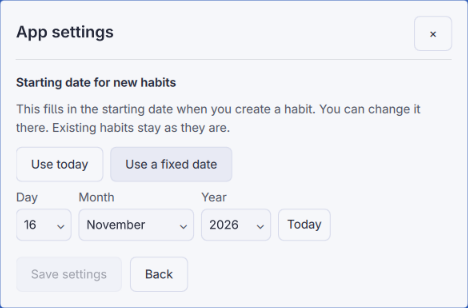
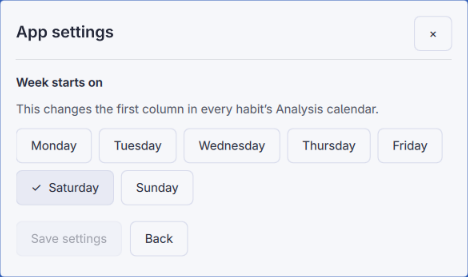
Let users choose the first weekday in Analysis calendars

diff --git a/HabitPanel.qml b/HabitPanel.qml
@@ -31,8 +31,7 @@ Panel {
   property string draftDefault: ""
   property string formError: ""
   property string returnTab: "task"
-  property string appDraftStart: ""
-  property bool appFixedDate: false
+  property int appDraftWeekStart: 1
   property bool appModified: false
   property bool appSaved: false
 
@@ -42,7 +41,7 @@ Panel {
     || Model.findHabit(trackerState, trackerState.selectedHabitId) || trackerState.habits[0] || null
   readonly property bool editing: creating || (tab === "settings" && habit !== null)
   readonly property bool appSettingsOpen: tab === "appSettings"
-  readonly property string appDefaultStart: trackerState.preferences ? trackerState.preferences.defaultStartDate : ""
+  readonly property int weekStart: Model.weekStartDay(trackerState.preferences && trackerState.preferences.weekStart)
   readonly property var stats: opened && habit && tab === "analysis" ? Model.analyzeHabit(habit, trackerState, todayKey) : null
   readonly property int previewDays: editing && draftStart >= "1900-01-01"
     ? Model.defaultPreview(trackerState, editId, draftStart, todayKey, draftDefault) : 0
@@ -167,7 +166,7 @@ Panel {
     draftKind = item ? item.kind : "good"
     draftQuestion = item ? item.question : t("defaultQuestion")
     draftMessage = item ? item.message : ""
-    draftStart = item ? item.startDate : Model.newHabitStart(trackerState, todayKey)
+    draftStart = item ? item.startDate : todayKey
     draftDefault = item ? item.defaultAnswer : ""
     saved = false
     deleteArmed = false
@@ -179,22 +178,21 @@ Panel {
     saved = false
   }
   function loadAppDraft() {
-    appFixedDate = appDefaultStart !== ""
-    appDraftStart = Model.newHabitStart(trackerState, todayKey)
+    appDraftWeekStart = weekStart
     appModified = false
     appSaved = false
   }
-  function setAppDateMode(fixed) {
-    if (saving || fixed === appFixedDate) return
-    appFixedDate = fixed
-    appModified = true
+  function setAppWeekStart(day) {
+    if (saving || day === appDraftWeekStart) return
+    appDraftWeekStart = day
+    appModified = day !== weekStart
     appSaved = false
   }
   function saveAppSettings() {
     if (busy || saving) return
     saving = true
     appSaved = false
-    hostWidget.savePreferences(appFixedDate ? appDraftStart : "")
+    hostWidget.savePreferences(appDraftWeekStart)
   }
   function save() {
     if (busy) return
@@ -580,9 +578,10 @@ Panel {
                 width: parent.width
                 spacing: Style.space(6)
                 Repeater {
-                  model: [1, 2, 3, 4, 5, 6, 7]
+                  model: Model.orderedWeekdays(root.weekStart)
                   Label {
                     required property int modelData
+                    objectName: "calendarWeekday-" + modelData
                     width: (weekdayRow.width - weekdayRow.spacing * 6) / 7
                     text: root.locale.dayName(modelData, Locale.ShortFormat)
                     color: root.dim
@@ -779,54 +778,28 @@ Panel {
 
             FieldGroup {
               width: parent.width
-              label: root.t("appDefaultStart")
+              label: root.t("weekStartsOn")
               Label {
                 width: parent.width
-                text: root.t("appDefaultStartHint")
+                text: root.t("weekStartHint")
                 wrapMode: Text.Wrap
                 color: root.dim
               }
               Flow {
                 width: parent.width
                 spacing: Style.space(8)
-                Choice {
-                  objectName: "appStartToday"
-                  text: root.t("useToday")
-                  active: !root.appFixedDate
-                  enabled: !root.saving
-                  onClicked: root.setAppDateMode(false)
+                Repeater {
+                  model: [1, 2, 3, 4, 5, 6, 7]
+                  Choice {
+                    required property int modelData
+                    objectName: "weekStart-" + modelData
+                    text: root.locale.dayName(modelData, Locale.LongFormat)
+                    iconText: active ? "✓" : ""
+                    active: root.appDraftWeekStart === modelData
+                    enabled: !root.saving
+                    onClicked: root.setAppWeekStart(modelData)
+                  }
                 }
-                Choice {
-                  objectName: "appStartFixed"
-                  text: root.t("useFixedDate")
-                  active: root.appFixedDate
-                  enabled: !root.saving
-                  onClicked: root.setAppDateMode(true)
-                }
-              }
-              StartDatePicker {
-                objectName: "appStartDatePicker"
-                fieldIdPrefix: "appStartDate"
-                visible: root.appFixedDate
-                enabled: !root.saving
-                width: parent.width
-                dateKey: root.appDraftStart || root.todayKey
-                maximumDate: root.todayKey
-                locale: root.locale
-                translations: strings
-                foreground: root.foreground
-                accent: root.accent
-                surface: root.surface
-                muted: root.dim
-                fontFamily: root.fontFamily
-                bodySize: root.bodySize
-                secondarySize: root.secondarySize
-                onPicked: function(dateKey) {
-                  root.appDraftStart = dateKey
-                  root.appModified = true
-                  root.appSaved = false
-                }
-                onFieldFocused: function(field) { root.revealFocus(field) }
               }
             }
             Flow {

diff --git a/Model.js b/Model.js
@@ -51,11 +51,17 @@ function enumerateDays(start, end) {
   return days
 }
 function emptyState() {
-  return { version: 2, habits: [], entries: {}, automatic: {}, selectedHabitId: "", preferences: { defaultStartDate: "" } }
+  return { version: 2, habits: [], entries: {}, automatic: {}, selectedHabitId: "", preferences: { weekStart: 1 } }
 }
-function newHabitStart(state, today) {
-  var start = state.preferences && state.preferences.defaultStartDate
-  return start && start <= today ? start : today
+function weekStartDay(value) {
+  return Number.isInteger(value) && value >= 1 && value <= 7 ? value : 1
+}
+function orderedWeekdays(weekStart) {
+  var first = weekStartDay(weekStart)
+  return [0, 1, 2, 3, 4, 5, 6].map(function(offset) { return (first - 1 + offset) % 7 + 1 })
+}
+function weekOffset(date, weekStart) {
+  return (date.getDay() + 7 - (weekStartDay(weekStart) % 7)) % 7
 }
 function findHabit(state, id) {
   var habits = state && state.habits || []
@@ -67,8 +73,7 @@ function parseState(raw, fallbackDate) {
   var parsed
   try { parsed = JSON.parse(raw) } catch (error) { return state }
   if (!parsed || !Array.isArray(parsed.habits)) return state
-  var defaultStart = parsed.preferences && parsed.preferences.defaultStartDate
-  if (validKey(defaultStart) && defaultStart >= "1900-01-01") state.preferences.defaultStartDate = defaultStart
+  state.preferences.weekStart = weekStartDay(parsed.preferences && parsed.preferences.weekStart)
   var known = {}
   for (var i = 0; i < parsed.habits.length && i < 80; i++) {
     var h = parsed.habits[i]
@@ -155,29 +160,29 @@ function defaultPreview(state, habitId, start, today, answer) {
 }
 function monthGrid(habit, state, year, month, today) {
   if (!habit) return []
-  return calendarDates(year, month).map(function(date) {
+  return calendarDates(year, month, state.preferences && state.preferences.weekStart).map(function(date) {
     var cell = cellFor(state, habit, date.key, today)
     cell.inMonth = date.inMonth
     return cell
   })
 }
-function calendarDates(year, month) {
+function calendarDates(year, month, weekStart) {
   var first = new Date(year, month, 1, 12)
-  var monday = addDays(keyForDate(first), -((first.getDay() + 6) % 7))
+  var firstCell = addDays(keyForDate(first), -weekOffset(first, weekStart))
   var cells = []
   for (var i = 0; i < 42; i++) {
-    var key = addDays(monday, i)
+    var key = addDays(firstCell, i)
     cells.push({ key: key, day: Number(key.slice(-2)), inMonth: dateFromKey(key).getMonth() === month })
   }
   return cells
 }
 function heatmapWeeks(habit, state, today, count) {
   var date = dateFromKey(today)
-  var monday = addDays(today, -(count - 1) * 7 - ((date.getDay() + 6) % 7))
+  var firstCell = addDays(today, -(count - 1) * 7 - weekOffset(date, state.preferences && state.preferences.weekStart))
   var weeks = []
   for (var w = 0; w < count; w++) {
     var row = []
-    for (var d = 0; d < 7; d++) row.push(cellFor(state, habit, addDays(monday, w * 7 + d), today))
+    for (var d = 0; d < 7; d++) row.push(cellFor(state, habit, addDays(firstCell, w * 7 + d), today))
     weeks.push(row)
   }
   return weeks
@@ -253,7 +258,7 @@ function analyze(state, today) {
 if (typeof module !== "undefined" && module.exports) module.exports = {
   keyForDate: keyForDate, dateFromKey: dateFromKey, validKey: validKey, todayKey: todayKey,
   addDays: addDays, daysBetween: daysBetween, dateParts: dateParts, dateLimits: dateLimits, changeDatePart: changeDatePart,
-  emptyState: emptyState, newHabitStart: newHabitStart, parseState: parseState, findHabit: findHabit,
+  emptyState: emptyState, weekStartDay: weekStartDay, orderedWeekdays: orderedWeekdays, parseState: parseState, findHabit: findHabit,
   answerFor: answerFor, successFor: successFor, recordFor: recordFor,
   summaryForDay: summaryForDay, defaultPreview: defaultPreview, monthGrid: monthGrid, calendarDates: calendarDates, heatmapWeeks: heatmapWeeks,
   analyzeHabit: analyzeHabit, analyze: analyze

diff --git a/StartDatePicker.qml b/StartDatePicker.qml
@@ -18,7 +18,6 @@ Flow {
   property string fontFamily: Style.font.family
   property int bodySize: Style.font.body
   property int secondarySize: Style.font.bodySmall
-  property string fieldIdPrefix: "startDate"
 
   readonly property var maximum: Model.dateParts(maximumDate)
   readonly property var current: Model.dateParts(dateKey) || maximum
@@ -47,7 +46,7 @@ Flow {
     width: Math.min(picker.width, Math.max(255, Style.space(306)))
 
     DateField {
-      objectName: picker.fieldIdPrefix + "Day"
+      objectName: "startDateDay"
       title: picker.translations.t("day")
       width: fields.fieldSpace * 0.23
       model: picker.makeOptions(1, picker.limits.day, 1, picker.numberLabel)
@@ -55,7 +54,7 @@ Flow {
       onActivated: function(index) { popup.close(); picker.selectPart("day", model[index].key) }
     }
     DateField {
-      objectName: picker.fieldIdPrefix + "Month"
+      objectName: "startDateMonth"
       title: picker.translations.t("month")
       width: fields.fieldSpace * 0.48
       model: picker.makeOptions(1, picker.limits.month, 1,
@@ -64,7 +63,7 @@ Flow {
       onActivated: function(index) { popup.close(); picker.selectPart("month", model[index].key) }
     }
     DateField {
-      objectName: picker.fieldIdPrefix + "Year"
+      objectName: "startDateYear"
       title: picker.translations.t("year")
       width: fields.fieldSpace * 0.29
       model: picker.makeOptions(picker.maximum.year, 1900, -1,
@@ -79,7 +78,7 @@ Flow {
     height: fields.height
     Button {
       id: todayButton
-      objectName: picker.fieldIdPrefix + "Today"
+      objectName: "startDateToday"
       anchors.bottom: parent.bottom
       text: picker.translations.t("today")
       enabled: picker.dateKey !== picker.maximumDate

diff --git a/BarWidget.qml b/BarWidget.qml
@@ -50,8 +50,8 @@ BarWidget {
     operation.action = fields.id ? "edit" : "add"
     operate(operation)
   }
-  function savePreferences(defaultStartDate) {
-    operate({ action: "setPreferences", defaultStartDate: defaultStartDate })
+  function savePreferences(weekStart) {
+    operate({ action: "setPreferences", weekStart: weekStart })
   }
   function deleteHabit(id) { operate({ action: "delete", id: id }) }
   function setAnswer(id, date, value) {

diff --git a/tests/test_store.py b/tests/test_store.py
@@ -110,28 +110,32 @@ class StorageTests(unittest.TestCase):
         self.assertEqual(data["entries"], {})
         self.assertEqual(data["automatic"], {})
 
-    def test_app_default_applies_to_new_habits_only(self):
+    def test_week_start_persists_without_changing_habits_or_history(self):
         data, existing = self.add(defaultAnswer="")
         self.apply(action="answer", id=existing, date=YESTERDAY, value="no")
         before = self.apply(action="read")
-        after = self.apply(action="setPreferences", defaultStartDate=YESTERDAY)
-        for field in ("habits", "entries", "automatic", "selectedHabitId"):
-            self.assertEqual(before[field], after[field])
-        self.assertEqual(self.apply(action="read")["preferences"]["defaultStartDate"], YESTERDAY)
-        data = self.apply(action="add", name="Uses default", kind="good")
-        self.assertEqual(data["habits"][-1]["startDate"], YESTERDAY)
-        data = self.apply(action="add", name="Overrides default", kind="good", startDate=START)
-        self.assertEqual(data["habits"][-1]["startDate"], START)
-        self.apply(action="setPreferences", defaultStartDate="")
-        data = self.apply(action="add", name="Uses today", kind="good")
-        self.assertEqual(data["habits"][-1]["startDate"], TODAY.isoformat())
+        for day in range(7, 0, -1):
+            after = self.apply(action="setPreferences", weekStart=day)
+            for field in ("habits", "entries", "automatic", "selectedHabitId"):
+                self.assertEqual(before[field], after[field])
+            self.assertEqual(self.apply(action="read")["preferences"]["weekStart"], day)
 
-    def test_app_default_rejects_invalid_and_future_values(self):
-        self.apply(action="setPreferences", defaultStartDate=START)
+    def test_old_default_date_is_ignored_and_replaced(self):
+        data, _ = self.add(defaultAnswer="")
+        data["preferences"] = {"defaultStartDate": START, "unrelatedPreference": True}
+        self.path.write_text(json.dumps(data))
+        created = self.apply(action="add", name="Uses today", kind="good")
+        self.assertEqual(created["habits"][-1]["startDate"], TODAY.isoformat())
+        updated = self.apply(action="setPreferences", weekStart=6)
+        self.assertEqual(updated["preferences"], {"weekStart": 6, "unrelatedPreference": True})
+        self.assertEqual(updated["habits"], created["habits"])
+
+    def test_week_start_rejects_invalid_values(self):
+        self.apply(action="setPreferences", weekStart=6)
         before = self.path.read_bytes()
-        for day in ("2026-02-30", (TODAY + dt.timedelta(days=1)).isoformat(), None):
+        for day in (-1, 0, 8, "6", True, 6.5, None):
             with self.assertRaises(ValueError):
-                self.apply(action="setPreferences", defaultStartDate=day)
+                self.apply(action="setPreferences", weekStart=day)
         self.assertEqual(self.path.read_bytes(), before)
 
     def test_selection_survives_reload_without_replacing_the_data_backup(self):

diff --git a/store.py b/store.py
@@ -65,9 +65,7 @@ def validate(data):
         preferences = data.get("preferences", {})
         if not isinstance(preferences, dict):
             raise ValueError("Invalid app settings.")
-        default_start = preferences.get("defaultStartDate", "")
-        if default_start != "":
-            date_key(default_start)
+        validate_week_start(preferences.get("weekStart", 1))
         selected = data.get("selectedHabitId", "")
         if selected != "" and (not isinstance(selected, str) or selected not in ids):
             raise ValueError("Invalid selected habit.")
@@ -80,6 +78,13 @@ def validate(data):
                     for identity, flag in answers.items()):
                 raise ValueError("Invalid automatic-answer record.")
     return data
+
+
+def validate_week_start(value):
+    # ISO weekdays, also used by Qt.locale().dayName(): Monday=1, Sunday=7.
+    if type(value) is not int or not 1 <= value <= 7:
+        raise ValueError("Choose a weekday from Monday through Sunday.")
+    return value
 
 
 def migrate(data):
@@ -189,17 +194,16 @@ def transact(path, operation):
         if action == "read":
             pass
         elif action == "setPreferences":
-            start = operation["defaultStartDate"]
-            if start != "" and date_key(start) > today_key:
-                raise ValueError("The starting date cannot be in the future.")
+            week_start = validate_week_start(operation["weekStart"])
             preferences = data.get("preferences", {})
-            if preferences.get("defaultStartDate", "") != start:
-                data.setdefault("preferences", {})["defaultStartDate"] = start
+            if preferences.get("weekStart", 1) != week_start or "defaultStartDate" in preferences:
+                preferences = data.setdefault("preferences", {})
+                preferences["weekStart"] = week_start
+                preferences.pop("defaultStartDate", None)
         elif action == "add":
             if len(data["habits"]) >= 80:
                 raise ValueError("Up to 80 habits are supported.")
-            start = data.get("preferences", {}).get("defaultStartDate") or today_key
-            habit = dict(id="h" + uuid.uuid4().hex, **habit_fields(operation, min(start, today_key), today_key))
+            habit = dict(id="h" + uuid.uuid4().hex, **habit_fields(operation, today_key, today_key))
             data["habits"].append(habit)
             data["selectedHabitId"] = habit["id"]
         elif action == "edit":

diff --git a/README.md b/README.md
@@ -28,7 +28,7 @@ Run the same commands to update a manual installation. If the running shell has 
 - Choose a habit in the sidebar (or selector on narrow screens). Today’s status is separate for each habit.
 - Use **New habit** to choose the type, starting date, question, optional message, and what to do with untouched days. Edit those same fields later under **Settings**.
 - For the starting date, choose **Day**, **Month**, and **Year**, or use **Today**. Only today and earlier dates can be selected.
-- The gear opens **App settings**. Set a fixed default starting date for new habits or keep **Use today**. This never changes existing habits, and you can override the default when you create a habit.
+- The gear opens **App settings**. Use **Week starts on** to set the first column of every Analysis calendar. Monday is the default; any weekday works. This does not change habit dates or answers.
 - Ask whether the behavior happened. For **Build**, Yes is on track; for **Quit**, No is on track.
 - Open **Analysis** for the calendar. Select a day and choose **Edit answer** or **Check in** to answer for that date in **Task**.
 - **Show progress & recovery** opens the selected habit’s streaks, 7-day, 30-day, and since-start rates, manual and automatic counts, and recovery details.

diff --git a/docs/release.md b/docs/release.md
@@ -1,8 +1,12 @@
-# 1.4.0 — App settings
+# 1.4.1 — First weekday
+
+**App settings → Week starts on** sets the first column of every Analysis calendar. Any of the seven weekdays can be selected. Monday is the default. This replaces the app-wide habit start date; per-habit dates and history are unchanged.
+
+![App settings with Saturday selected as the first weekday](app-settings.png)
+
+## 1.4.0 — App settings
 
 The gear opens app-wide preferences, separate from a habit’s Settings tab. New habits can start on the day they’re created or use a fixed date you set. This only fills in the new habit form; existing dates and history aren’t changed.
-
-![App settings with a fixed date for new habits](app-settings.png)
 
 ## 1.3.5 — Date controls and calendar colors
 
